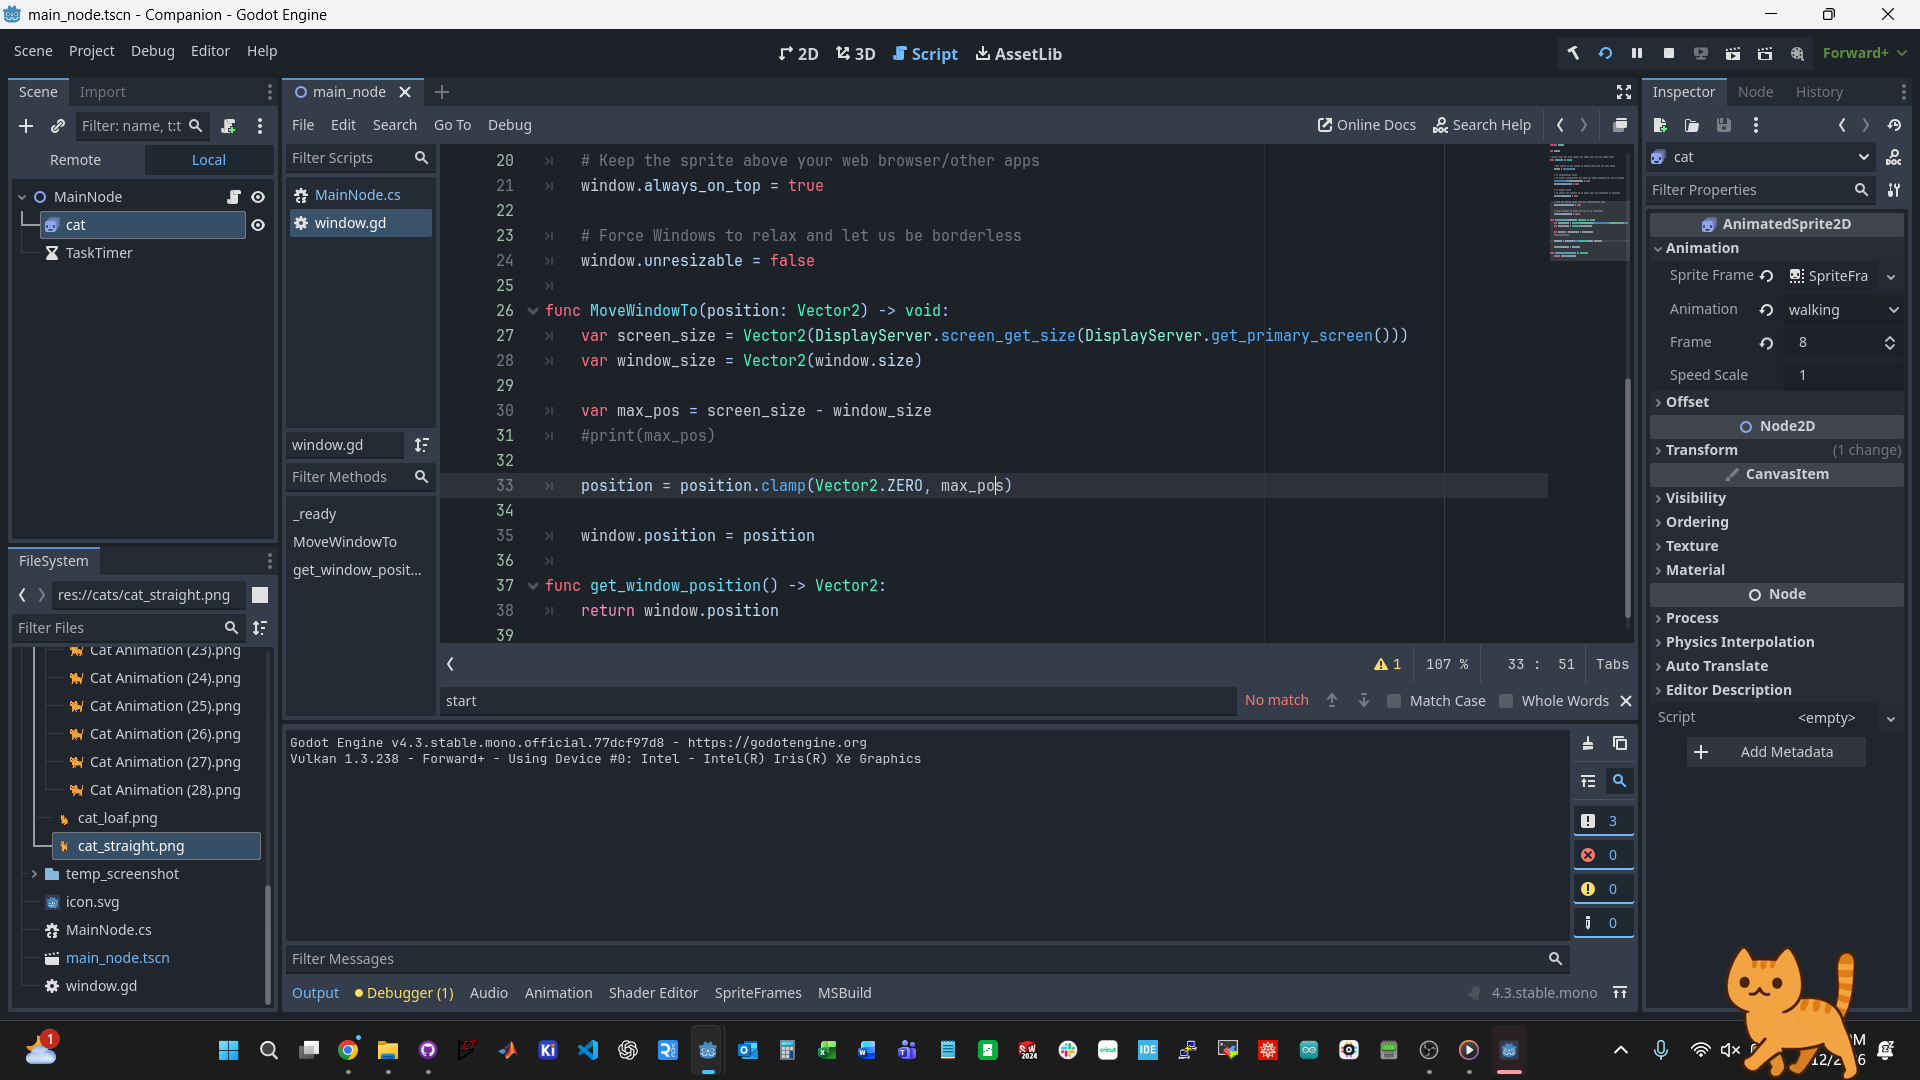
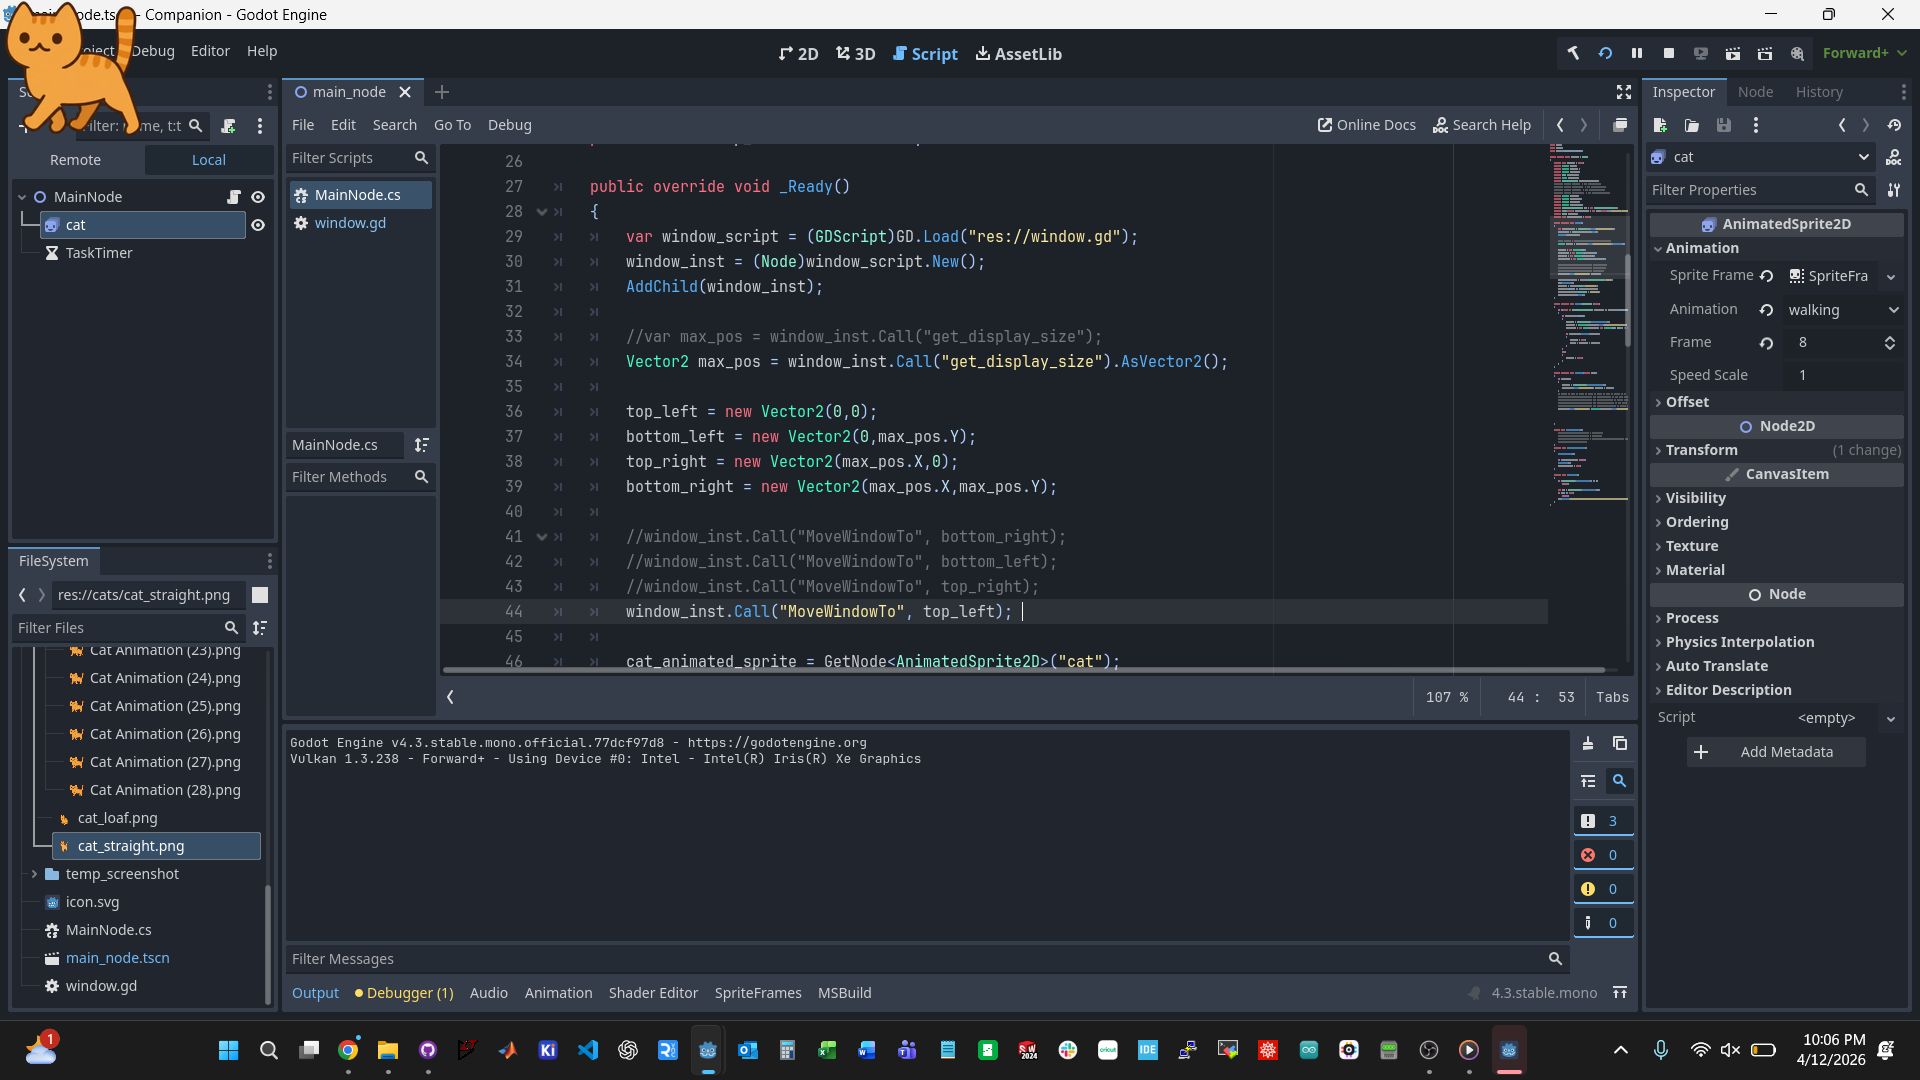
screensize is now not hardcoded anywhere

diff --git a/MainNode.cs b/MainNode.cs
@@ -11,10 +11,10 @@ public partial class MainNode : Node2D
 	private Node window_inst;
 	private Rect2 globalRect;
 	private AnimatedSprite2D cat_animated_sprite;
-	private Vector2 top_left  = new Vector2(0,0);
-	private Vector2 bottom_left  = new Vector2(0,945);
-	private Vector2 top_right  = new Vector2(1775,0);
-	private Vector2 bottom_right  = new Vector2(1775,945);
+	private Vector2 top_left;
+	private Vector2 bottom_left;
+	private Vector2 top_right;
+	private Vector2 bottom_right;
 	private RandomNumberGenerator rng = new RandomNumberGenerator();
 	private List<string> animation_list = new List<string>(){"standing","walking","loafing"};
 	private Timer TaskTimer;
@@ -25,7 +25,16 @@ public partial class MainNode : Node2D
 		var window_script = (GDScript)GD.Load("res://window.gd");
 		window_inst = (Node)window_script.New();
 		AddChild(window_inst);
+		
+		Vector2 max_pos = window_inst.Call("get_display_size").AsVector2();
+		
+		top_left = new Vector2(0,0);
+		bottom_left = new Vector2(0,max_pos.Y);
+		top_right = new Vector2(max_pos.X,0);
+		bottom_right = new Vector2(max_pos.X,max_pos.Y);
+		
 		window_inst.Call("MoveWindowTo", bottom_right); 
+		
 		cat_animated_sprite = GetNode<AnimatedSprite2D>("cat");
 		rng.Randomize();
 		TaskTimer = GetNode<Timer>("TaskTimer");
